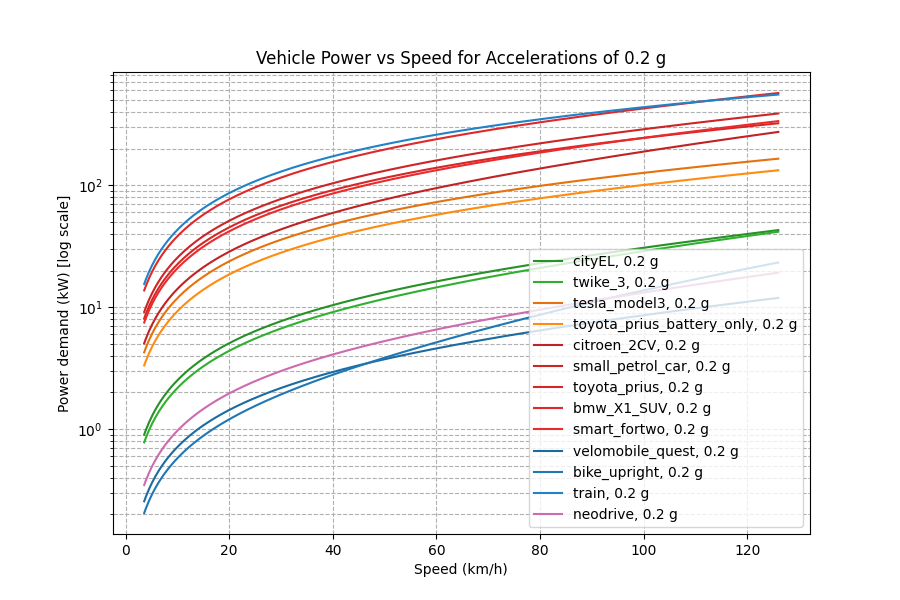
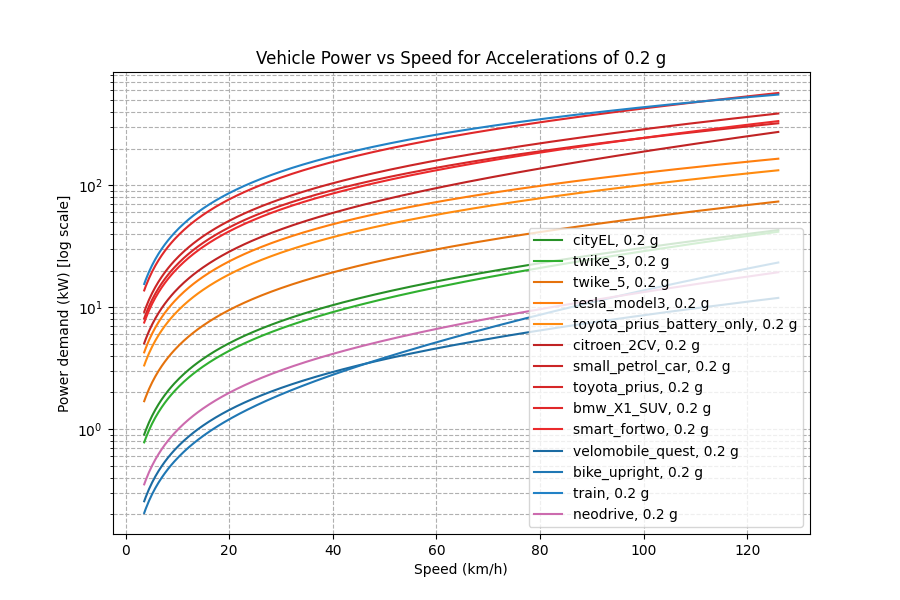
added twike 5 estimation

diff --git a/plotEfficiency.py b/plotEfficiency.py
@@ -12,7 +12,7 @@ v = np.linspace(1, 35, 400)  # m/s (avoid 0 to prevent division by zero)
 vehicles = {
     "cityEL": {"Cd": 0.30, "A": 1.0, "Crr": 0.015, "m": 300, "eta": 0.7, "base_color":"#2ca02c"},  # green
     "twike_3": {"Cd": 0.325, "A": 1.34, "Crr": 0.012, "m": 300, "eta": 0.80, "base_color":"#2ca02c"},
-    "twike_5": {"Cd": 0.27, "A": 1.7, "Crr": 0.015, "m": 700, "eta": 0.85, "base_color":"#ff7f0e"},
+    "twike_5": {"Cd": 0.27, "A": 1.7, "Crr": 0.01, "m": 700, "eta": 0.85, "base_color":"#ff7f0e"},
     "tesla_model3": {"Cd": 0.23, "A": 2.22, "Crr": 0.010, "m": 1760, "eta": 0.85, "base_color":"#ff7f0e"},  # orange
     "toyota_prius_battery_only": {"Cd": 0.24, "A": 2.16, "Crr": 0.010, "m": 1375, "eta": 0.85, "base_color":"#ff7f0e"},
     "citroen_2CV": {"Cd": 0.51, "A": 1.8, "Crr": 0.015, "m": 600, "eta": 0.25, "base_color":"#d62728"},  # red
@@ -23,7 +23,7 @@ vehicles = {
     "velomobile_quest": {"Cd": 0.20, "A": 0.55, "Crr": 0.005, "m": 125, "eta": 0.98, "base_color":"#1f77b4"},  # blue
     "bike_upright": {"Cd": 1.00, "A": 0.6, "Crr": 0.005, "m": 100, "eta": 0.98, "base_color":"#1f77b4"},
     "train": {"Cd": 1, "A": 0.4, "Crr": 0.0003, "m": 7500, "eta": 0.95, "base_color":"#1f77b4"},
-    "neodrive": {"Cd": 0.2, "A": 1, "Crr": 0.005, "m": 130, "eta": 0.75, "base_color":"#e377c2"}   # pink
+    "neodrive": {"Cd": 0.2, "A": 1, "Crr": 0.0075, "m": 130, "eta": 0.75, "base_color":"#e377c2"}   # pink
 }
 
 def adjust_color(hex_color, factor=1.0):
